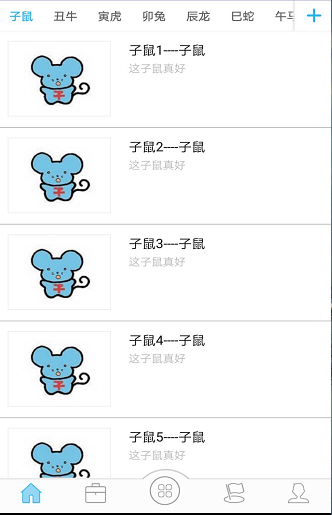
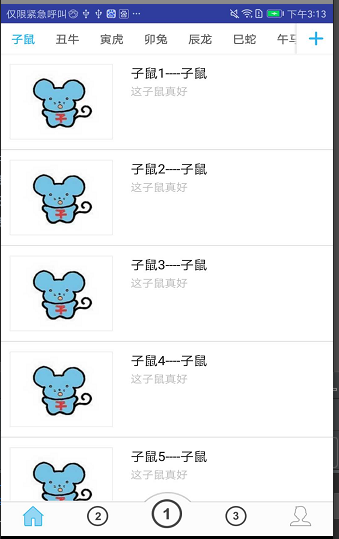
添加了效果图的动图

diff --git a/README.md b/README.md
@@ -29,4 +29,5 @@
 <p><img src="https://github.com/hytcyjb/yNewsRecycle/blob/master/screenshot/screen01.png?raw=true" width="332" height="515" marge="20">
 <img src="https://github.com/hytcyjb/yNewsRecycle/blob/master/screenshot/screen02.png?raw=true" width="332" height="533" marge="20">
 <img src="https://github.com/hytcyjb/yNewsRecycle/blob/master/screenshot/screen03.png?raw=true" width="364" height="602" marge="20">
-<img src="https://github.com/hytcyjb/yNewsRecycle/blob/master/screenshot/screen04.png?raw=true" width="335" height="535" marge="20"></p>
+<img src="https://github.com/hytcyjb/yNewsRecycle/blob/master/screenshot/screen04.png?raw=true" width="335" height="535" marge="20">
+<img src="https://github.com/hytcyjb/yNewsRecycle/blob/master/screenshot/screen05.png?raw=true" width="335" height="535" marge="20"></p>
